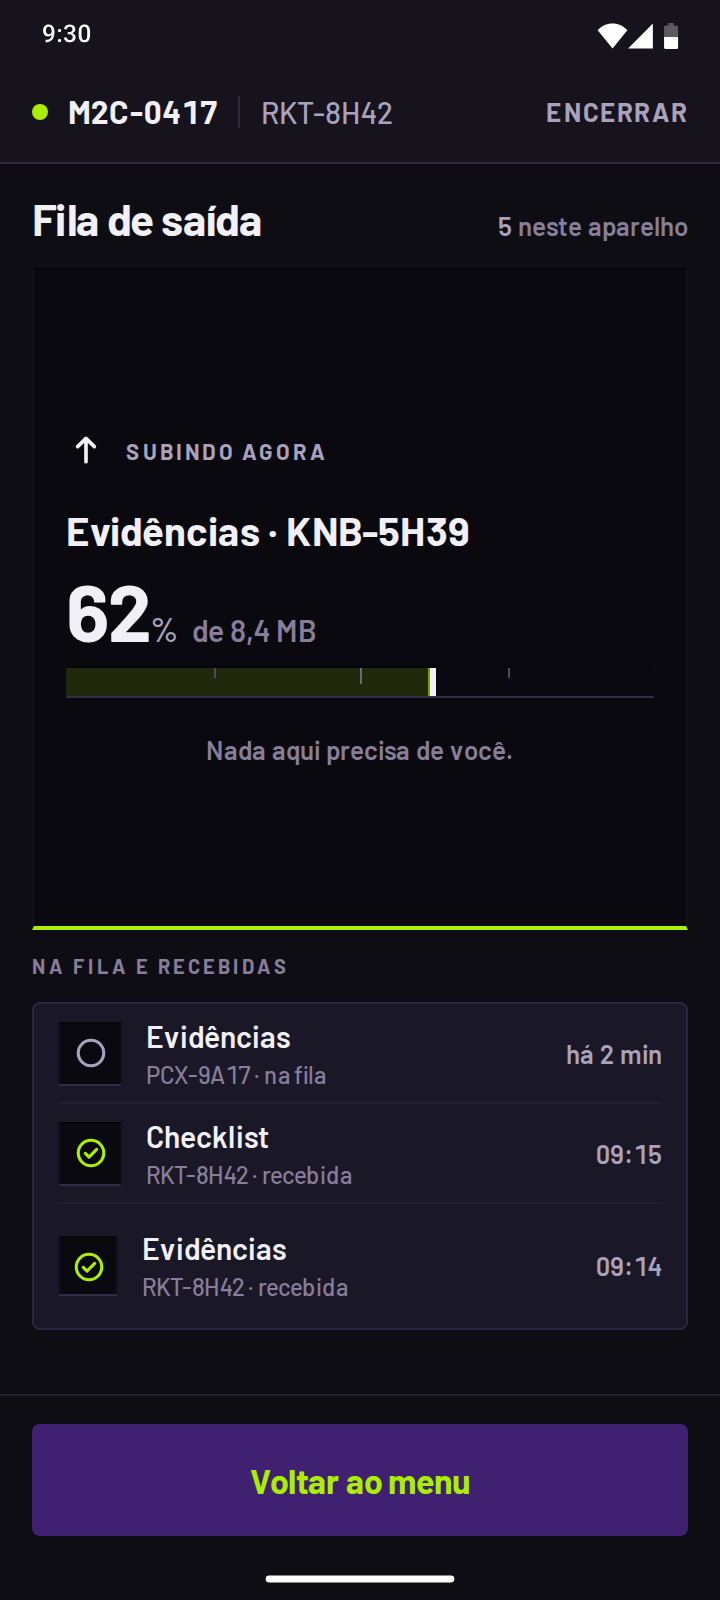
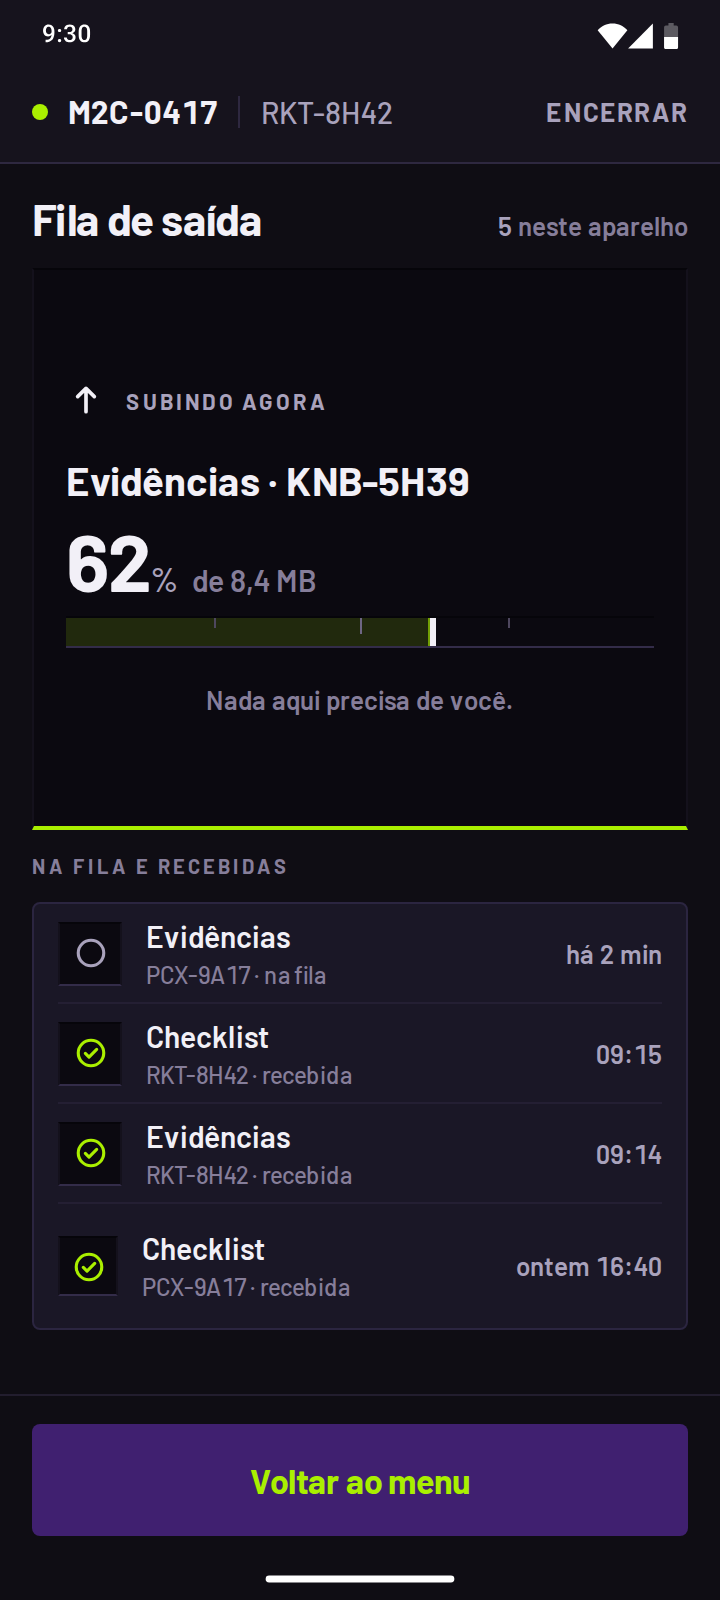
pacote 37b: as respostas do gate do 37

diff --git a/02-telas/T07-diagnostico-do-modulo/referencias/html/11-momento-lendo.html b/02-telas/T07-diagnostico-do-modulo/referencias/html/11-momento-lendo.html
@@ -14,7 +14,7 @@ a { color: inherit; text-decoration: none; }
 </head>
 <body>
 <div style="width: 360px; height: 800px; position: relative; box-sizing: border-box; background: #0F0D14; color: #F2F0F7; display: flex; flex-direction: column; font-variant-numeric: tabular-nums;">
-  <div role="img" aria-label="9:30 · Wi-Fi, sinal e bateria" style="height: 30px; flex-shrink: 0; background: #16131D; display: flex; align-items: flex-start; box-sizing: border-box;"><svg width="360" height="30" viewBox="0 12.90 412 34.33" aria-hidden="true" style="display: block;" fill="none" xmlns="http://www.w3.org/2000/svg">
+  <div role="img" aria-label="9:30 · Wi-Fi, sinal e bateria" style="height: 30px; flex-shrink: 0; background: #0F0D14; display: flex; align-items: flex-start; box-sizing: border-box;"><svg width="360" height="30" viewBox="0 12.90 412 34.33" aria-hidden="true" style="display: block;" fill="none" xmlns="http://www.w3.org/2000/svg">
 <path d="M26.0781 35.7012H26.2148C26.8438 35.7012 27.3678 35.6191 27.7871 35.4551C28.2109 35.2865 28.5482 35.054 28.7988 34.7578C29.0495 34.4616 29.2295 34.113 29.3389 33.7119C29.4482 33.3109 29.5029 32.8757 29.5029 32.4062V30.6904C29.5029 30.2848 29.4596 29.9294 29.373 29.624C29.291 29.3141 29.1725 29.0566 29.0176 28.8516C28.8672 28.6419 28.6917 28.4847 28.4912 28.3799C28.2952 28.2751 28.0833 28.2227 27.8555 28.2227C27.6048 28.2227 27.3792 28.2796 27.1787 28.3936C26.9827 28.5029 26.8164 28.6556 26.6797 28.8516C26.5475 29.043 26.445 29.2686 26.3721 29.5283C26.3037 29.7835 26.2695 30.057 26.2695 30.3486C26.2695 30.6221 26.3014 30.8864 26.3652 31.1416C26.4336 31.3923 26.5339 31.6156 26.666 31.8115C26.7982 32.0075 26.9645 32.1624 27.165 32.2764C27.3656 32.3903 27.6003 32.4473 27.8691 32.4473C28.1243 32.4473 28.359 32.3994 28.5732 32.3037C28.7874 32.2035 28.9743 32.069 29.1338 31.9004C29.2933 31.7318 29.4186 31.5426 29.5098 31.333C29.6009 31.1234 29.651 30.9092 29.6602 30.6904L30.2891 30.8818C30.2891 31.2282 30.2161 31.57 30.0703 31.9072C29.929 32.2399 29.7308 32.5452 29.4756 32.8232C29.2249 33.0967 28.931 33.3154 28.5938 33.4795C28.2611 33.6436 27.8988 33.7256 27.5068 33.7256C27.0329 33.7256 26.6136 33.6367 26.249 33.459C25.889 33.2767 25.5882 33.0306 25.3467 32.7207C25.1097 32.4108 24.932 32.0553 24.8135 31.6543C24.695 31.2533 24.6357 30.8317 24.6357 30.3896C24.6357 29.9111 24.7087 29.4622 24.8545 29.043C25.0003 28.6237 25.2122 28.2546 25.4902 27.9355C25.7682 27.612 26.1055 27.3613 26.502 27.1836C26.903 27.0013 27.3564 26.9102 27.8623 26.9102C28.4001 26.9102 28.8717 27.015 29.2773 27.2246C29.6829 27.4342 30.0247 27.7236 30.3027 28.0928C30.5807 28.4619 30.7904 28.8903 30.9316 29.3779C31.0729 29.8656 31.1436 30.3896 31.1436 30.9502V31.5312C31.1436 32.1191 31.0911 32.6865 30.9863 33.2334C30.8815 33.7757 30.7106 34.2793 30.4736 34.7441C30.2412 35.2044 29.9336 35.61 29.5508 35.9609C29.1725 36.3073 28.7077 36.5785 28.1562 36.7744C27.6094 36.9658 26.9668 37.0615 26.2285 37.0615H26.0781V35.7012ZM33.1019 36.1797C33.1019 35.9245 33.1885 35.7103 33.3617 35.5371C33.5349 35.3594 33.7696 35.2705 34.0658 35.2705C34.3666 35.2705 34.6013 35.3594 34.7699 35.5371C34.9431 35.7103 35.0296 35.9245 35.0296 36.1797C35.0296 36.4349 34.9431 36.6491 34.7699 36.8223C34.6013 36.9954 34.3666 37.082 34.0658 37.082C33.7696 37.082 33.5349 36.9954 33.3617 36.8223C33.1885 36.6491 33.1019 36.4349 33.1019 36.1797ZM33.1088 30.3555C33.1088 30.1003 33.1953 29.8861 33.3685 29.7129C33.5417 29.5352 33.7764 29.4463 34.0726 29.4463C34.3734 29.4463 34.6081 29.5352 34.7767 29.7129C34.9499 29.8861 35.0365 30.1003 35.0365 30.3555C35.0365 30.6107 34.9499 30.8249 34.7767 30.998C34.6081 31.1712 34.3734 31.2578 34.0726 31.2578C33.7764 31.2578 33.5417 31.1712 33.3685 30.998C33.1953 30.8249 33.1088 30.6107 33.1088 30.3555ZM38.7517 31.2783H39.7361C40.1189 31.2783 40.4356 31.2122 40.6862 31.0801C40.9415 30.9479 41.1306 30.7656 41.2536 30.5332C41.3767 30.3008 41.4382 30.0342 41.4382 29.7334C41.4382 29.4189 41.3812 29.1501 41.2673 28.9268C41.1579 28.6989 40.9893 28.5234 40.7614 28.4004C40.5381 28.2773 40.2533 28.2158 39.907 28.2158C39.6153 28.2158 39.351 28.2751 39.114 28.3936C38.8816 28.5075 38.697 28.6715 38.5603 28.8857C38.4236 29.0954 38.3552 29.346 38.3552 29.6377H36.7009C36.7009 29.109 36.8399 28.6396 37.1179 28.2295C37.3959 27.8193 37.7741 27.498 38.2527 27.2656C38.7357 27.0286 39.278 26.9102 39.8796 26.9102C40.5222 26.9102 41.0827 27.0173 41.5612 27.2314C42.0443 27.4411 42.4203 27.7555 42.6892 28.1748C42.9581 28.5941 43.0925 29.1136 43.0925 29.7334C43.0925 30.016 43.0264 30.3031 42.8943 30.5947C42.7621 30.8864 42.5661 31.153 42.3064 31.3945C42.0466 31.6315 41.723 31.8252 41.3357 31.9756C40.9483 32.1214 40.4994 32.1943 39.989 32.1943H38.7517V31.2783ZM38.7517 32.5635V31.6611H39.989C40.5723 31.6611 41.0691 31.7295 41.4792 31.8662C41.8939 32.0029 42.2312 32.1921 42.4909 32.4336C42.7507 32.6706 42.9398 32.9417 43.0583 33.2471C43.1814 33.5524 43.2429 33.876 43.2429 34.2178C43.2429 34.6826 43.1586 35.0973 42.99 35.4619C42.8259 35.8219 42.5912 36.1273 42.2859 36.3779C41.9805 36.6286 41.6228 36.8177 41.2126 36.9453C40.807 37.0729 40.365 37.1367 39.8864 37.1367C39.4581 37.1367 39.0479 37.0775 38.656 36.959C38.264 36.8405 37.9131 36.665 37.6032 36.4326C37.2933 36.1956 37.0473 35.9017 36.865 35.5508C36.6872 35.1953 36.5984 34.7852 36.5984 34.3203H38.2458C38.2458 34.6165 38.3142 34.8786 38.4509 35.1064C38.5922 35.3298 38.7881 35.5052 39.0388 35.6328C39.294 35.7604 39.5857 35.8242 39.9138 35.8242C40.2601 35.8242 40.5586 35.7627 40.8093 35.6396C41.0599 35.5166 41.2514 35.3343 41.3835 35.0928C41.5202 34.8512 41.5886 34.5596 41.5886 34.2178C41.5886 33.8304 41.5134 33.516 41.363 33.2744C41.2126 33.0329 40.9984 32.8551 40.7204 32.7412C40.4424 32.6227 40.1143 32.5635 39.7361 32.5635H38.7517ZM51.5382 31.1895V32.8164C51.5382 33.5957 51.4607 34.2611 51.3057 34.8125C51.1554 35.3594 50.9366 35.8037 50.6495 36.1455C50.3624 36.4873 50.0183 36.738 49.6173 36.8975C49.2208 37.057 48.7764 37.1367 48.2843 37.1367C47.8923 37.1367 47.5277 37.0866 47.1905 36.9863C46.8578 36.8861 46.557 36.7288 46.2882 36.5146C46.0193 36.3005 45.7891 36.0247 45.5977 35.6875C45.4109 35.3457 45.2651 34.9378 45.1602 34.4639C45.06 33.9899 45.0098 33.4408 45.0098 32.8164V31.1895C45.0098 30.4056 45.0873 29.7448 45.2423 29.207C45.3972 28.6647 45.6182 28.2249 45.9054 27.8877C46.1925 27.5459 46.5343 27.2975 46.9307 27.1426C47.3318 26.9876 47.7784 26.9102 48.2706 26.9102C48.6671 26.9102 49.0317 26.9603 49.3643 27.0605C49.7016 27.1562 50.0024 27.3089 50.2667 27.5186C50.5356 27.7282 50.7634 28.0016 50.9503 28.3389C51.1417 28.6715 51.2875 29.0749 51.3878 29.5488C51.488 30.0182 51.5382 30.5651 51.5382 31.1895ZM49.8907 33.0488V30.9434C49.8907 30.5469 49.8679 30.1982 49.8223 29.8975C49.7768 29.5921 49.7084 29.3346 49.6173 29.125C49.5307 28.9108 49.4213 28.7376 49.2891 28.6055C49.157 28.4688 49.0066 28.3708 48.838 28.3115C48.6693 28.2477 48.4802 28.2158 48.2706 28.2158C48.0154 28.2158 47.7875 28.266 47.587 28.3662C47.3865 28.4619 47.2179 28.6169 47.0811 28.8311C46.9444 29.0452 46.8396 29.3278 46.7667 29.6787C46.6983 30.0251 46.6641 30.4466 46.6641 30.9434V33.0488C46.6641 33.4499 46.6869 33.8031 46.7325 34.1084C46.7781 34.4137 46.8464 34.6758 46.9376 34.8945C47.0287 35.1087 47.1381 35.2865 47.2657 35.4277C47.3979 35.5645 47.5483 35.6647 47.7169 35.7285C47.8901 35.7923 48.0792 35.8242 48.2843 35.8242C48.544 35.8242 48.7742 35.7741 48.9747 35.6738C49.1752 35.5736 49.3438 35.4141 49.4805 35.1953C49.6173 34.972 49.7198 34.6826 49.7882 34.3271C49.8565 33.9717 49.8907 33.5456 49.8907 33.0488Z" fill="white"/>
 <path d="M350.5 26.4167C347.1 26.4167 344.125 27.9042 342 30.2417L350.5 40.5834L359 30.2417C356.875 27.9042 353.9 26.4167 350.5 26.4167Z" fill="white"/>
 <path d="M373.583 26.4167L359.417 40.5834H373.583V26.4167V26.4167Z" fill="white"/>

diff --git a/06-prototipo/app/src/ds/primitivos/Desenho.jsx b/06-prototipo/app/src/ds/primitivos/Desenho.jsx
@@ -4,48 +4,24 @@
 // · a cor vem do token, por currentColor, na peça que usa (o Icone, o Glifo)
 // · o traço e o tamanho vêm da peça, pela classe (lei 14: 2,2 nos glifos de estado, 1,8 nas
 //   ferramentas e nas folhas), como a referência de cada lugar
-// · o vão de um risco (o olho riscado, o Bluetooth desligado) é pintado na cor do fundo onde o
-//   ícone mora: o poço, por padrão; o campo, que é rebaixado, diz o dele (--fundo-do-icone)
-// · o ponto do sem-rede tem, em toda referência, a cor do traço (o vermelho da T03/01, o cinza
-//   das outras): o arquivo do jogo grava o cinza, e aqui ele segue a cor do ícone
+// · o vão de um risco (o olho riscado, o Bluetooth desligado, a câmera sem permissão) é pintado
+//   na cor do fundo onde o ícone mora: o poço, por padrão; o campo, que é rebaixado, diz o dele
+//   (--fundo-do-icone)
+// · o 37b: o jogo tem 48, com as três setas das linhas (na grade de 20) e os quatro desenhos das
+//   folhas · nenhum ícone se desenha aqui
 const ARQUIVOS = import.meta.glob('../../../../../03-design-system/icones/*.svg', { query: '?raw', import: 'default', eager: true })
 
 function ler(svg) {
   const caixa = /viewBox="([^"]+)"/.exec(svg)[1]
   const miolo = svg.replace(/^[\s\S]*?<svg[^>]*>/, '').replace(/<\/svg>\s*$/, '')
     .replace(/var\(--poco, #[0-9A-Fa-f]{6}\)/g, 'var(--fundo-do-icone, var(--poco))')
-    .replace(/fill="#[0-9A-Fa-f]{6}"/g, 'fill="currentColor"')
   return { caixa, miolo }
 }
 
 export const DESENHOS = Object.fromEntries(Object.entries(ARQUIVOS).map(([caminho, svg]) => [caminho.split('/').pop().replace(/\.svg$/, ''), ler(svg)]))
 
-// As três setas das linhas não estão no jogo de 41 (o desvio nomeado do pacote 37, pro arquiteto pôr no
-// jogo): o desenho é o das referências, na caixa de 20 delas — › (126 vezes, as linhas que abrem),
-// ˄ (18, a seção aberta) e ˅ (17, a garagem da tira do menu). A seção da T13 gira a › pra cima (a
-// animação da seta, T13): girada -90° no centro, ela é exatamente a ˄ das referências.
-export const SETAS = {
-  'seta-avancar': { caixa: '0 0 20 20', miolo: '<path d="M7.5 5l5 5-5 5"></path>' },
-  'seta-recolher': { caixa: '0 0 20 20', miolo: '<path d="M5 12.5l5-5 5 5"></path>' },
-  'seta-abrir': { caixa: '0 0 20 20', miolo: '<path d="M5 7.5l5 5 5-5"></path>' },
-}
-
-// Os desenhos que nenhuma das 201 telas usa, e por isso não estão no jogo (o desvio nomeado do pacote 37,
-// pro arquiteto pôr no jogo): o desenho é o das folhas do design system, que são referência —
-// · energia (é com você, o passo que pede o corte · folhas 3 e 5) e lua (em repouso · folha 3)
-// · o e-mail da linha de opção (as folhas 2 e 6)
-// · a câmera do visor sem a permissão (a T13 sem a câmera): nenhuma referência a desenha; é a câmera
-//   do visor (foto) com o risco do jogo, o mesmo vão e o mesmo traço do olho riscado (lei 21)
-const RISCO = '<line x1="3.5" y1="3.5" x2="20.5" y2="20.5" stroke="var(--fundo-do-icone, var(--poco))" stroke-width="4.6"></line><line x1="3.5" y1="3.5" x2="20.5" y2="20.5"></line>'
-export const DAS_FOLHAS = {
-  energia: { caixa: '0 0 24 24', miolo: '<path d="M12 3v8"></path><path d="M6.3 6.8a8 8 0 1011.4 0"></path>' },
-  lua: { caixa: '0 0 24 24', miolo: '<path d="M20 14.5A8 8 0 019.5 4a8 8 0 1010.5 10.5z"></path>' },
-  email: { caixa: '0 0 24 24', miolo: '<rect x="3" y="5" width="18" height="14" rx="1"></rect><path d="M3 7l9 6 9-6"></path>' },
-}
-DAS_FOLHAS['foto-riscada'] = { caixa: '0 0 24 24', miolo: (DESENHOS.foto?.miolo ?? '') + RISCO }
-
 export function Desenho({ nome }) {
-  const d = DESENHOS[nome] ?? SETAS[nome] ?? DAS_FOLHAS[nome]
+  const d = DESENHOS[nome]
   if (!d) throw new Error(`o ícone ${nome} não está no jogo (03-design-system/icones)`)
   return <svg className="ds-desenho" viewBox={d.caixa} fill="none" stroke="currentColor" strokeLinecap="round" strokeLinejoin="round" aria-hidden="true" dangerouslySetInnerHTML={{ __html: d.miolo }} />
 }

diff --git a/04-dados/gate-cobertura.js b/04-dados/gate-cobertura.js
@@ -435,8 +435,8 @@ chk("P·C4 · T01 o trecho da regra 5 é 3, e a senha nova não tem sequência n
   chk("P·C11 · T12 a 03: a consulta anterior é de hoje, a uma hora do dia antes das 14:30 (11:47)",
     sr.diasAtras === 0 && /^\d\d:\d\d$/.test(sr.consultadoAs) && sr.consultadoAs < M.HORA_NOMINAL, sr.consultadoAs);
   var h = M.instalacoes.filter(function (i) { return !!i.etapas; });
-  chk("P·C11 · T12 o 01: só a i-01 tem as etapas do detalhe (T12·2: as outras abrem só com o que o resumo sustenta)",
-    h.length === 1 && h[0].id === varzea[0].id && M.instalacoes.every(function (i) { return !!i.etapas || !!i.resumo; }), h.map(function (i) { return i.id; }).join(","));
+  chk("P·C11 · T12 o 01 e o 04: a i-01 e a i-02 têm as etapas do detalhe (pacote 37b: a referência da T12/04 vence) · as outras abrem só com o que o resumo sustenta",
+    h.length === 2 && h[0].id === varzea[0].id && h[1].id === "i-02" && M.instalacoes.every(function (i) { return !!i.etapas || !!i.resumo; }), h.map(function (i) { return i.id; }).join(","));
 })();
 
 /* ── P·C11 · T15 · fila de saída: os rótulos curtos (AC-14), a janela da re-checagem (AC-15) e os três recortes (AC-22, G21) ── */
@@ -805,11 +805,11 @@ chk("p3: a Seção E se chama Ciclo de testes", M.checklist.secoes.filter(functi
     if (!ficha || +ficha[1] !== m || +ficha[2] !== e) contagem.push(d.slice(0, 3) + ": ficha " + (ficha ? ficha[1] + " · " + ficha[2] : "sem a linha") + ", referências " + m + " · " + e);
   });
   chk("fichas · o censo: 15 telas e 201 referências", telas.length === 15 && refs === 201, telas.length + " telas · " + refs + " referências");
-  // o pacote 37 · o jogo de ícones: 41 desenhos, um SVG por ícone, com a cor por currentColor (o token na hora de usar)
+  // o pacote 37 · o jogo de ícones, um SVG por ícone, com a cor por currentColor (o token na hora de usar) · o 37b: 48 desenhos, com as três setas das linhas e os quatro das folhas
   var pastaIcones = path.join(__dirname, "..", "03-design-system", "icones");
   var icones = fs.readdirSync(pastaIcones).filter(function (f) { return /\.svg$/.test(f); });
   var semCorDoToken = icones.filter(function (f) { return fs.readFileSync(path.join(pastaIcones, f), "utf8").indexOf('stroke="currentColor"') < 0; });
-  chk("fichas · o jogo de ícones: 41 desenhos, cada um com o traço em currentColor", icones.length === 41 && semCorDoToken.length === 0, icones.length + " ícones" + (semCorDoToken.length ? " · sem currentColor: " + semCorDoToken.join(", ") : ""));
+  chk("fichas · o jogo de ícones: 48 desenhos, cada um com o traço em currentColor", icones.length === 48 && semCorDoToken.length === 0, icones.length + " ícones" + (semCorDoToken.length ? " · sem currentColor: " + semCorDoToken.join(", ") : ""));
   chk("fichas · cada referência tem a linha dela no estados.md da tela", semLinha.length === 0, semLinha.join(", ") || "todas");
   chk("fichas · a ficha de cada tela conta os momentos e os estados que as referências têm", contagem.length === 0, contagem.join(" / ") || "as 15 batem");
 })();

diff --git a/02-telas/T15-fila-de-saida/referencias/html/01-estado-sem-erro.html b/02-telas/T15-fila-de-saida/referencias/html/01-estado-sem-erro.html
@@ -75,13 +75,21 @@ a { color: inherit; text-decoration: none; }
         </span>
         <span style="font-size: 13px; font-weight: 600; color: #A9A2BC; flex-shrink: 0;">09:15</span>
       </div>
-      <div style="display: flex; align-items: center; gap: 12px; height: 62px; ">
-        <span style="width: 30px; height: 30px; background: #0B0910; border-top: 1px solid #06050A; border-bottom: 1px solid #332C49; border-left: 1px solid #14111C; border-right: 1px solid #14111C; display: flex; align-items: center; justify-content: center; flex-shrink: 0;"><svg width="17" height="17" viewBox="0 0 24 24" fill="none" stroke="#AAEF00" stroke-width="2.2" stroke-linecap="round" stroke-linejoin="round" aria-hidden="true"><circle cx="12" cy="12" r="9"></circle><path d="M8 12.3l2.6 2.6L16 9.5"></path></svg></span>
+      <div style="display: flex; align-items: center; gap: 12px; height: 50px; border-bottom: 1px solid #241F33;">
+        <span style="width: 32px; height: 32px; background: #0B0910; border-top: 1px solid #06050A; border-bottom: 1px solid #332C49; border-left: 1px solid #14111C; border-right: 1px solid #14111C; display: flex; align-items: center; justify-content: center; flex-shrink: 0;"><svg width="17" height="17" viewBox="0 0 24 24" fill="none" stroke="#AAEF00" stroke-width="2.2" stroke-linecap="round" stroke-linejoin="round" aria-hidden="true"><circle cx="12" cy="12" r="9"></circle><path d="M8 12.3l2.6 2.6L16 9.5"></path></svg></span>
         <span style="flex-grow: 1; display: flex; flex-direction: column; gap: 2px;">
           <span style="font-size: 15px; font-weight: 600;">Evidências</span>
           <span style="font-size: 12px; font-weight: 500; color: #867E9A; line-height: 16px;">RKT-8H42 · recebida</span>
         </span>
         <span style="font-size: 13px; font-weight: 600; color: #A9A2BC; flex-shrink: 0;">09:14</span>
+      </div>
+      <div style="display: flex; align-items: center; gap: 12px; height: 62px; ">
+        <span style="width: 30px; height: 30px; background: #0B0910; border-top: 1px solid #06050A; border-bottom: 1px solid #332C49; border-left: 1px solid #14111C; border-right: 1px solid #14111C; display: flex; align-items: center; justify-content: center; flex-shrink: 0;"><svg width="17" height="17" viewBox="0 0 24 24" fill="none" stroke="#AAEF00" stroke-width="2.2" stroke-linecap="round" stroke-linejoin="round" aria-hidden="true"><circle cx="12" cy="12" r="9"></circle><path d="M8 12.3l2.6 2.6L16 9.5"></path></svg></span>
+        <span style="flex-grow: 1; display: flex; flex-direction: column; gap: 2px;">
+          <span style="font-size: 15px; font-weight: 600;">Checklist</span>
+          <span style="font-size: 12px; font-weight: 500; color: #867E9A; line-height: 16px;">PCX-9A17 · recebida</span>
+        </span>
+        <span style="font-size: 13px; font-weight: 600; color: #A9A2BC; flex-shrink: 0;">ontem 16:40</span>
       </div>
     </div>
 

diff --git a/03-design-system/tokens.css b/03-design-system/tokens.css
@@ -307,7 +307,7 @@
   --instrumento-recheio: 18px;         /* o recheio de cima e de baixo do poço dos instrumentos da T03: o download, o concluído e a idade do pacote (T03-V2) · T03 */
   --n-unidade-progresso: 17px;         /* a unidade junto do número de 40 no concluído e na idade do pacote (T03/02, 03, 04); no download (00) ela é --n-unidade-g (T03-V3) · T03 */
   --barra-idade: 14px;                 /* a altura da barra de idade do pacote, o elemento-assinatura (T03/03, 04) · T03 */
-  --idade-preenchido: var(--borda-poco); /* o preenchido da régua de idade, o tempo que passou, no pacote que ainda vale (T03/03): o cinza da borda do poço, #332C49 · T03 */
+  --idade-preenchido: var(--borda-poco); /* o preenchido da régua de idade, o tempo que passou, no pacote que ainda vale (T03/03): o cinza da borda do poço, #332C49 · no claro, a borda funda do poço, #BCBEC8, o mesmo contraste contra o trilho (1,5:1) · T03 */
   --entrelinha-nota-secundaria: 1.55;  /* a frase de 13 da nota tracejada que diz o bloqueio (T03/04, T03-V6) · Nota (corpo secundario) */
 
   /* ── C6 · C8 · o que as telas T05 a T08 pediram (cada um com o papel e quem usa) ── */
@@ -396,7 +396,6 @@
   --traco-vazio-busca: #332C49;   /* o tracinho dentro do vazio da busca (T05/02, 03) · T05 (VazioDaBusca) */
   --borda-dialogo:     #332C49;   /* a borda do diálogo · Dialogo */
   /* o pacote 37: a quarta peça que usava a luz do poço emprestada, e sumia no claro desde o 34 */
-  --borda-achado:      #332C49;   /* a moldura tracejada do achado (T11/01) · no escuro, o cinza que ela já tinha (a referência, refeita no pacote 33, desenha o --borda-neutra: pro arquiteto) · no claro, o tracejado do vazio · Nota */
 }
 
 /* ── o tema claro · NEUTRO FRIO · só as cores ───────────────────────────
@@ -463,8 +462,7 @@
   --trilho-antes: #E6E7EC;
   --traco-vazio-busca: #E6E7EC;
   --borda-dialogo: #E6E7EC;
-  --borda-achado: var(--borda-neutra);
-  --idade-preenchido: var(--borda-poco);
+  --idade-preenchido: var(--poco-fundo);
   --rolagem-cor: var(--tinta-apagada);
 }
 

diff --git a/04-dados/mocks.js b/04-dados/mocks.js
@@ -371,7 +371,24 @@ var AUTOTESTE_ENCERRAMENTO = [ /* retorno do PM, 06/10: as sete, nesta ordem · 
       } },
     { id: "i-02", ativoId: "a-03", moduloSerial: "M2C-0312", diasAtras: 1,  hora: "16:05",
       estado: "aguardando-validacao", ressalva: null,
-      resumo: { blocos: "6/6", checklist: "27/27", autoteste: "5 aprovadas · 1 não se aplica · 1 pendente", recebimento: "confirmado" } },
+      resumo: { blocos: "6/6", checklist: "27/27", autoteste: "5 aprovadas · 1 não se aplica · 1 pendente", recebimento: "confirmado" },
+      etapas: { /* pacote 37b · a referência vence (T12/04 e 05): o detalhe da PCX-9A17
+                   mostra a instalação inteira, como a i-01, com os números que a
+                   referência desenha · o `resumo` continua, pra a lista da T12 */
+        preChecagem: { checagens: 8, passaram: 8 },
+        cadeia: [
+          { bloco: "limpeza", hora: "15:21", readBack: "confirmado" },
+          { bloco: "ativo",   hora: "15:25", readBack: "confirmado" },
+          { bloco: "cercas",  hora: "15:30", readBack: "confirmado" },
+          { bloco: "leitor",  hora: "15:34", readBack: "confirmado" },
+          { bloco: "eventos", hora: "15:39", readBack: "confirmado" },
+          { bloco: "conexao", hora: "15:44", readBack: "confirmado" }
+        ],
+        calibracao: { semeadas: [], puladas: [], nadaACalibrar: true },
+        cicloDinamico: { completo: true, passos: ["Ignição ligada", "Rotação", "Cartão do motorista", "Ignição desligada"], confirmados: 4 },
+        checklist: { itens: 27, concluidos: 27 }, autoteste: { aprovadas: 5, naoSeAplicam: 1, pendentes: 1 },
+        recebimento: { confirmado: true, hora: "16:05" }
+      } },
     { id: "i-03", ativoId: "a-12", moduloSerial: "M2C-0402", diasAtras: 2,  hora: "10:22",
       estado: "aguardando-validacao",
       ressalva: { item: "Fixação da antena", justificativa: "Suporte original quebrado — fixada com abraçadeira reforçada" },

diff --git a/06-prototipo/app/src/telas/T12/dados.js b/06-prototipo/app/src/telas/T12/dados.js
@@ -78,9 +78,8 @@ export function detalheDaLinha(i) {
 // nunca quem está logado agora: com outro usuário no aparelho (T01/18, HU-T01-4,
 // decisão 42) o nome segue o do herói (a revisão de 26/09, ultima-conserto,
 // padrão 2). As outras chegam do servidor só com o resumo, que não diz quem
-// instalou: sem nome (T12-V5, sem inventar autor). A T12/04 e a 05 desenham
-// 'Rafael Vieira' na PCX-9A17, cuja i-02 só tem o resumo: o nome entra quando o
-// mock der as etapas dela (desvio nomeado, pro arquiteto)
+// instalou: sem nome (T12-V5, sem inventar autor). A i-02, a PCX-9A17 da T12/04 e
+// 05, ganhou as etapas no 37b, e com elas o nome
 export function linhaDoDetalhe(i) {
   const g = M.criteriosRegra.gruposIdade
   if (i.diasAtras > g.ontem) return detalheDaLinha(i).texto
@@ -180,11 +179,10 @@ function calibracaoDe(i) {
 }
 const contagem = (titulo, feito, total, extra = {}) => ({ titulo, valor: TX.deN(feito, total), ok: feito === total, ...extra })
 
-// as linhas da instalação (T12·2 a): as seis etapas da i-01, lidas das etapas; nas
-// outras, só as três que o resumo sustenta — nada se inventa. O recebimento, que
-// era a sétima (e a quarta do resumo), agora é a seção de cima (decisão 41). A
-// T12/04 e a 05 desenham as seis na PCX-9A17, cuja i-02 só tem o resumo: as
-// outras três entram quando o mock der as etapas dela (desvio nomeado)
+// as linhas da instalação (T12·2 a): as seis etapas da i-01 e da i-02 (o 37b), lidas
+// das etapas; nas outras, só as três que o resumo sustenta, nada se inventa. O
+// recebimento, que era a sétima (e a quarta do resumo), agora é a seção de cima
+// (decisão 41)
 export function linhasDoDetalhe(i) {
   const E = TX.etapas
   const e = i.etapas

diff --git a/06-prototipo/app/src/ds/primitivos/Icone.jsx b/06-prototipo/app/src/ds/primitivos/Icone.jsx
@@ -15,7 +15,7 @@ export const ICONES = {
   calibracao: ['calibracao', 'acao'], conferir: ['ferramenta', 'acao'], checklist: ['checklist', 'acao'],
   fila: ['fila-de-saida', 'acao'], instalacoes: ['ultimas-instalacoes', 'acao'],
   // ação
-  fechar: ['fechar', 'fechar'], avancar: ['seta-avancar', 'fechar'], abrir: ['seta-abrir', 'fechar'], recolher: ['seta-recolher', 'fechar'],
+  fechar: ['fechar', 'fechar'], avancar: ['seta-seguir', 'fechar'], abrir: ['seta-abrir', 'fechar'], recolher: ['seta-fechar', 'fechar'],
   // a seta da linha de opção da T01 (o reenvio, T01/11) e a da lista do país (T01/02, 20, 22): os desenhos de 24 da T01
   seguir: ['seguir', 'fechar'], 'abrir-lista': ['abrir-lista', 'fino'],
   reenviar: ['reenviar', 'acao'], olho: ['olho', 'acao'], 'olho-riscado': ['olho-riscado', 'acao'],
@@ -34,9 +34,9 @@ export const ICONES = {
   limpar: ['fechar-a-folha', 'limpar'],
   // a rodada 3 do retorno do PM · T01/04 e 11: a seta que volta, do *Usar outro dado*
   'voltar-etapa': ['outro-canal', 'acao'],
-  // fora das telas (Desenho.jsx · os das folhas): o e-mail da linha de opção (folhas 2 e 6) e a câmera do
-  // visor sem a permissão (a T13 sem a câmera), a câmera do visor com o risco
-  email: ['email', 'acao'], 'camera-negada': ['foto-riscada', 'acao'],
+  // fora das 201 telas, prontos no jogo (o 37b): o e-mail da linha de opção (folhas 2 e 6) e a câmera
+  // sem a permissão (a T13 sem a câmera)
+  email: ['email', 'acao'], 'camera-negada': ['camera-sem-permissao', 'acao'],
 }
 
 // tam: o lado do ícone, por token (--icone-*)

diff --git a/06-prototipo/app/src/ds/cartoes/Nota.css b/06-prototipo/app/src/ds/cartoes/Nota.css
@@ -5,7 +5,7 @@
 .ds-nota-fato .ds-nota-titulo { color: var(--tinta-secundaria); }
 .ds-nota-fato .ds-nota-frase { font-size: var(--t-secundario); line-height: var(--entrelinha-legenda); color: var(--tinta-forte); }   /* a de 13 fica na entrelinha dela: a de 16 é do apoio de 12 */
 /* C11 · T11/01 (G11): o achado da leitura, o conteúdo que o app não classifica */
-.ds-nota.ds-nota-achado { gap: var(--e-2); padding: var(--e-10) var(--e-12); border-color: var(--borda-achado); }   /* o pacote 37: era a luz do poço, branca no claro */
+.ds-nota.ds-nota-achado { gap: var(--e-2); padding: var(--e-10) var(--e-12); border-color: var(--borda-neutra); }   /* o tracejado do vazio, como a referência desenha desde o 33 (o 37b) */
 .ds-nota-achado .ds-nota-titulo { color: var(--tinta-secundaria); }
 .ds-nota-achado .ds-nota-frase { font-size: var(--t-secundario); line-height: var(--entrelinha-texto); color: var(--tinta-secundaria); }
 /* C4 · T03 (G11): a frase de 13, em 400, da nota que diz o bloqueio (T03/04) */

diff --git a/06-prototipo/app/src/telas/T07/index.jsx b/06-prototipo/app/src/telas/T07/index.jsx
@@ -336,11 +336,11 @@ export default function T07({ momento, estado: est }) {
   if (corre) avisoVivo.current = true
 
   return (
-    // a leitura do módulo (a 11, o pacote 5): a barra já no fundo da faixa, sem o rótulo
-    // de topo, e as linhas que esperam com o título aceso — como a 11 desenha (o desvio
-    // da 06 e da 10, que apagam o título, vai nomeado no gate do pacote 5)
+    // a leitura do módulo (a 11, o pacote 5): sem o rótulo de topo, e as linhas que esperam
+    // com o título aceso, como a 11 desenha · a barra na cor da página: a faixa da sessão
+    // ainda não nasceu, e é a página que está embaixo dela (o 37b, R-23)
     <div className={`t07 ${corre ? 't07-lendo' : ''}`}>
-      <BarraDoSistema fundo={comFaixa || corre ? 'faixa' : 'pagina'} veu={enc.veu} />
+      <BarraDoSistema fundo={comFaixa ? 'faixa' : 'pagina'} veu={enc.veu} />
       {faixa}
       <div className="tela-miolo t07-miolo">
         <div className="t07-cabeca">

diff --git a/06-prototipo/app/src/telas/T12/index.jsx b/06-prototipo/app/src/telas/T12/index.jsx
@@ -5,8 +5,8 @@
 //   (T12·3 a). A i-01, de hoje às 11:47, fica ao lado da sessão aberta (G22).
 // · Tocar numa instalação abre o detalhe (01) e a URL diz 01: em cima, o que o
 //   servidor recebeu — posicionamento e eventos (a viagem saiu, decisão 54), cada um com o veredito
-//   e o porquê (decisão 41) —, e embaixo a instalação: a i-01 com as seis
-//   etapas; as outras com só as linhas que o resumo sustenta (T12·2 a). O 01
+//   e o porquê (decisão 41) —, e embaixo a instalação: a i-01 e a i-02 (o 37b) com
+//   as seis etapas; as outras com só as linhas que o resumo sustenta (T12·2 a). O 01
 //   aberto pelo endereço mostra a mais nova da garagem — a i-01 em Várzea.
 // · Os estados da coluna, parados, pela receita: a 02 pela consulta vazia do
 //   caso (AC-21), sem sessão; a 03 com o aviso da consulta anterior em cima da

diff --git a/06-prototipo/app/src/telas/T09/cadeia.js b/06-prototipo/app/src/telas/T09/cadeia.js
@@ -212,8 +212,9 @@ export function elosDo({ confirmados: k, fase, parou }, conteudo, envio) {
       if (parou === 'recusa') return { ...base, estado: 'xis', valor: T.naoConfere, descricao: T.causa[b] ?? null }
       return { ...base, estado: parou === 'queda' ? 'sem-sinal-neutro' : 'pausa', valor: T.pausado, nomeGlifo: PAROU }
     }
-    // depois da recusa, os que nem começaram levam o traço (a 01); com a cadeia pausada, o relógio
-    return { ...base, estado: fase === 'recusado' ? 'traco' : 'espera', valor: T.aguardando, nomeGlifo: AINDA_NAO }
+    // com a cadeia parada, recusada (01), pausada (02) ou na recuperação (03), os que ainda vão
+    // gravar levam o traço: não estão na fila de ninguém (o 37b) · o círculo vazio é só da que corre
+    return { ...base, estado: 'traco', valor: T.aguardando, nomeGlifo: AINDA_NAO }
   })
 }
 
